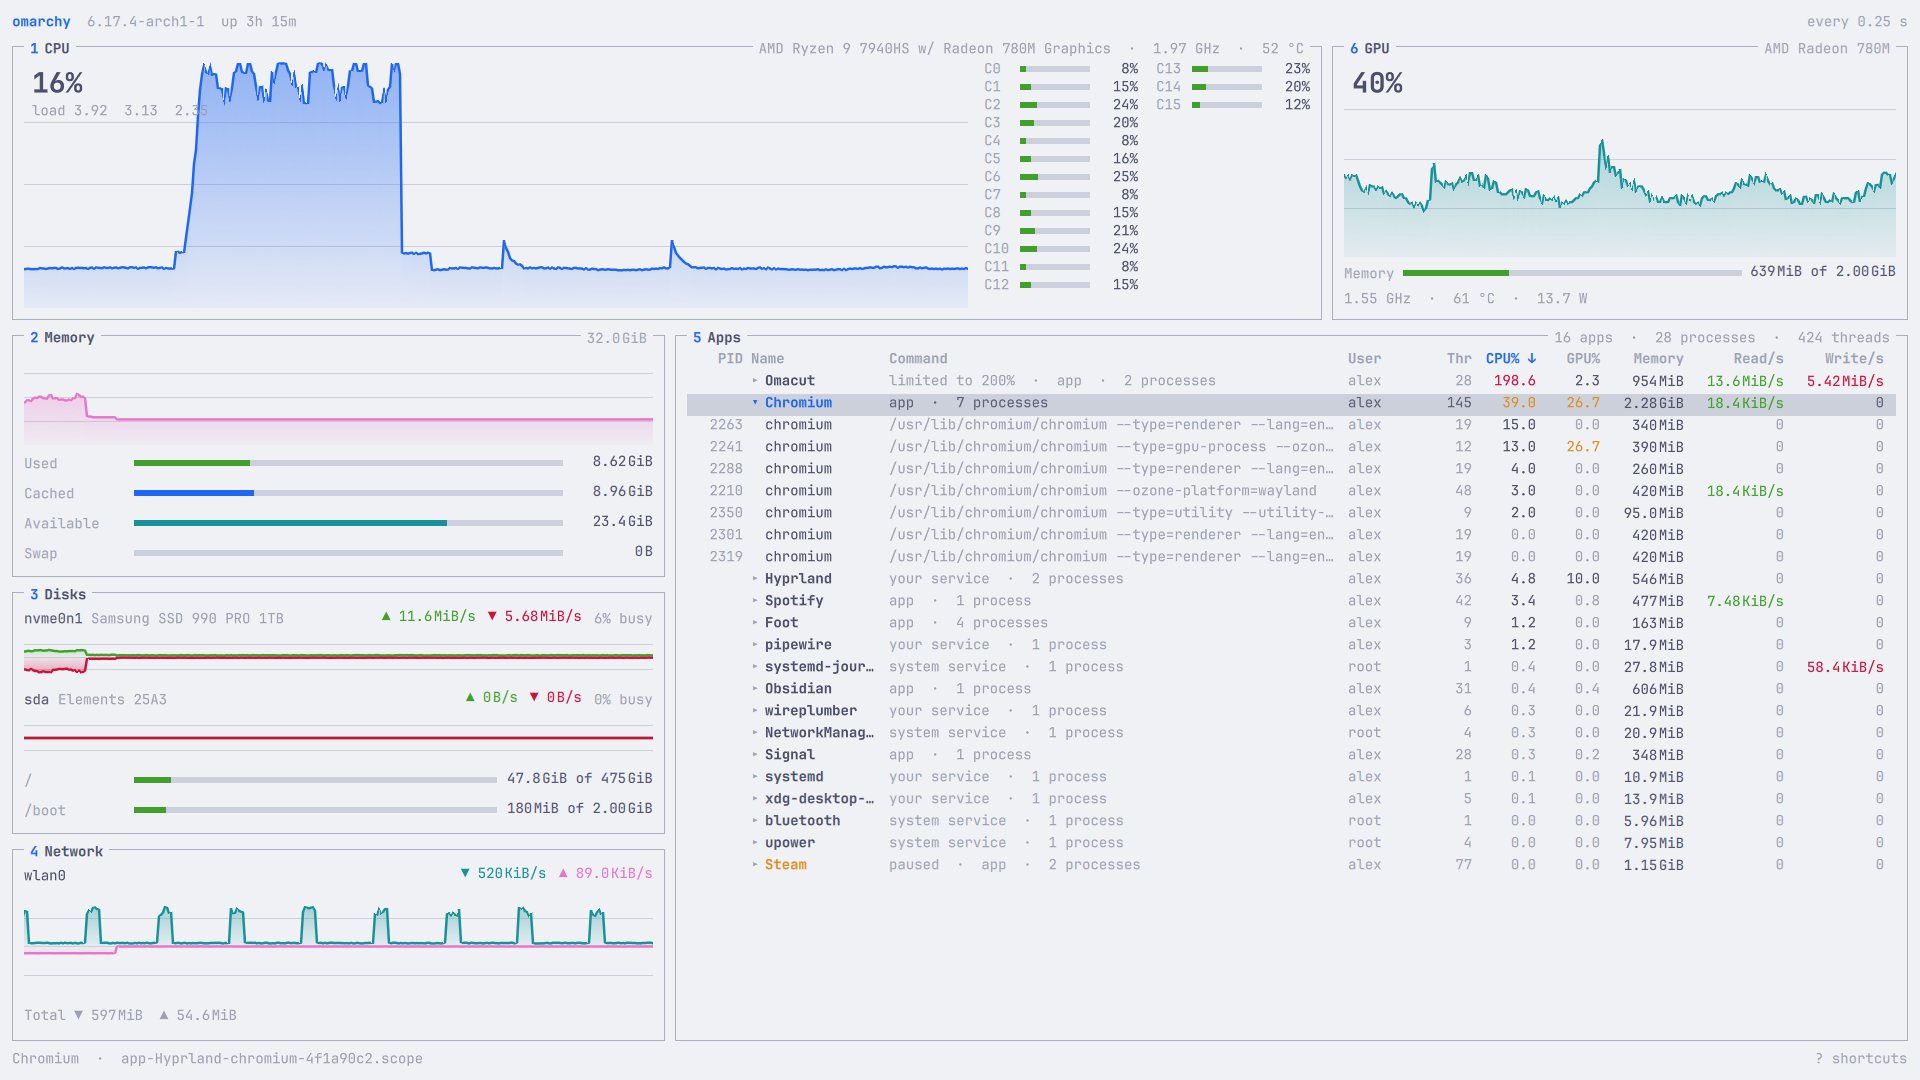
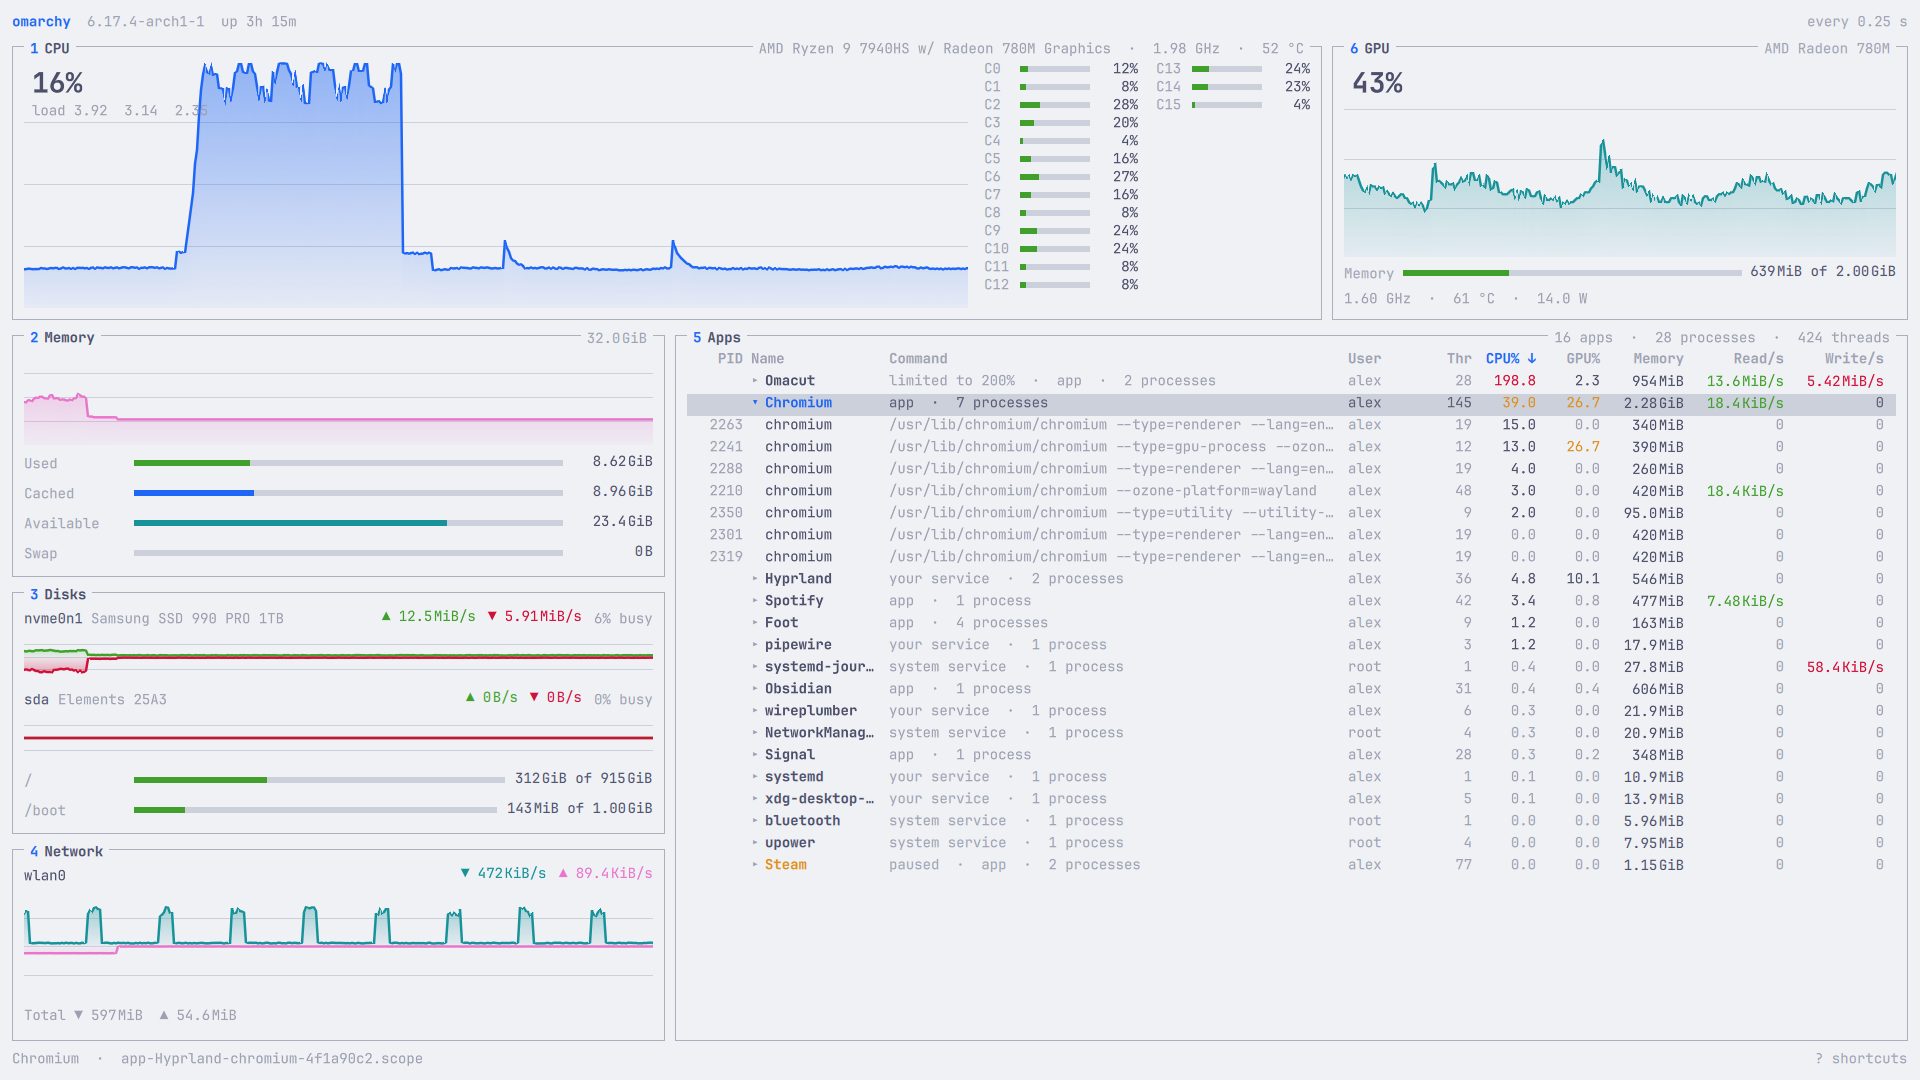
Give the demo system its own filesystem sizes (#5)

diff --git a/src/monitor.cpp b/src/monitor.cpp
@@ -8,6 +8,7 @@
 #include <QProcess>
 #include <QSysInfo>
 #include <algorithm>
+#include <array>
 
 #include <cerrno>
 #include <dirent.h>
@@ -514,13 +515,37 @@ void Monitor::sampleFilesystems() {
         for (const QString &uuid : byUuid.entryList(QDir::System | QDir::Files | QDir::NoDotAndDotDot))
             m_uuidOf.insert(QFileInfo(QFileInfo(byUuid.filePath(uuid)).symLinkTarget()).fileName(), uuid);
     }
+    // A stand-in root can't make statvfs() answer for its mount points, so
+    // it says how big its filesystems are in its own statvfs file: a line
+    // per mount point, "PATH TOTAL FREE AVAILABLE" in bytes. Without one,
+    // or for a mount point it leaves out, the real filesystem is asked.
+    QHash<QString, std::array<double, 3>> standIn;
+    if (m_proc != "/proc") {
+        for (const QByteArray &line : readFile(m_proc + "/../statvfs").split('\n')) {
+            const QList<QByteArray> f = line.split(' ');
+            if (f.size() >= 4)
+                standIn.insert(QString::fromUtf8(f.mid(0, f.size() - 3).join(' ')),
+                               {f[f.size() - 3].toDouble(), f[f.size() - 2].toDouble(), f[f.size() - 1].toDouble()});
+        }
+    }
     for (const Mount &mount : parseMounts(mounts)) {
-        struct statvfs fs;
-        if (statvfs(QFile::encodeName(mount.path).constData(), &fs) != 0 || fs.f_blocks == 0)
+        double total, free, available;
+        const auto given = standIn.constFind(mount.path);
+        if (given != standIn.constEnd()) {
+            total = (*given)[0];
+            free = (*given)[1];
+            available = (*given)[2];
+        } else {
+            struct statvfs fs;
+            if (statvfs(QFile::encodeName(mount.path).constData(), &fs) != 0)
+                continue;
+            total = double(fs.f_blocks) * fs.f_frsize;
+            free = double(fs.f_bfree) * fs.f_frsize;
+            available = double(fs.f_bavail) * fs.f_frsize;
+        }
+        if (total <= 0)
             continue;
-        const double total = double(fs.f_blocks) * fs.f_frsize;
-        const double available = double(fs.f_bavail) * fs.f_frsize;
-        const double used = total - double(fs.f_bfree) * fs.f_frsize;
+        const double used = total - free;
         filesystems.append(QVariantMap{
             {"id", m_uuidOf.value(blockName(mount.device), mount.device)},
             {"path", mount.path}, {"device", mount.device}, {"type", mount.type},

diff --git a/tests/montop_tests.cpp b/tests/montop_tests.cpp
@@ -389,6 +389,31 @@ private slots:
                 QCOMPARE(d.toMap()["id"].toString(), QString("usb-SanDisk_Cruzer_4C53-0:0"));
     }
 
+    void standInRootGivesFilesystemSizes()
+    {
+        QTemporaryDir root;
+        const QString proc = root.filePath("proc"), sys = root.filePath("sys");
+        write(proc + "/meminfo", "MemTotal: 1000 kB\nMemAvailable: 600 kB\n");
+        write(proc + "/stat", "cpu  0 0 0 0 0 0 0 0\ncpu0 0 0 0 0 0 0 0 0\n");
+        // "/" exists everywhere, so statvfs() would answer for it with this
+        // machine's disk: the stand-in's own numbers must win.
+        write(proc + "/self/mounts", "/dev/nvme0n1p2 / ext4 rw 0 0\n/dev/nvme0n1p1 /boot vfat rw 0 0\n"
+                                     "/dev/sdb1 /mnt/my\\040backup ext4 rw 0 0\n/dev/sdc1 /nowhere/at/all ext4 rw 0 0\n");
+        write(root.filePath("statvfs"), "/ 1000 400 300\n/boot 2000 1500 1500\n/mnt/my backup 100 25 25\n");
+        Monitor monitor(proc, sys);
+        monitor.sample();
+        QHash<QString, QVariantMap> found;
+        for (const QVariant &f : monitor.filesystems())
+            found.insert(f.toMap()["path"].toString(), f.toMap());
+        QCOMPARE(found.size(), 3); // Not listed, and not a real directory either: left out.
+        QCOMPARE(found["/"]["total"].toDouble(), 1000.0);
+        QCOMPARE(found["/"]["used"].toDouble(), 600.0);
+        QCOMPARE(found["/"]["available"].toDouble(), 300.0);
+        QCOMPARE(found["/"]["share"].toDouble(), 600.0 / 900.0);
+        QCOMPARE(found["/boot"]["used"].toDouble(), 500.0);
+        QCOMPARE(found["/mnt/my backup"]["total"].toDouble(), 100.0);
+    }
+
     void leavesOutApplesInternalNamespaces()
     {
         QTemporaryDir root;

diff --git a/tools/demo/montop-demo.py b/tools/demo/montop-demo.py
@@ -1,7 +1,8 @@
 #!/usr/bin/env python3
 """A made-up system for Montop to watch, for screenshots and demos.
 
-Writes a stand-in /proc and /sys under ROOT and keeps their counters moving
+Writes a stand-in /proc and /sys under ROOT (and the sizes of its
+filesystems, in ROOT/statvfs) and keeps their counters moving
 four times a second, following a fixed script: a browser streaming video
 (decoded on the Radeon 780M, the CPU's own GPU),
 music, a video export held to two cores, a paused game store, and a Rust
@@ -224,6 +225,11 @@ def setup():
     write(f"{PROC}/cpuinfo", "".join(f"processor\t: {i}\nmodel name\t: AMD Ryzen 9 7940HS w/ Radeon 780M Graphics\n\n"
                                      for i in range(CORES)))
     write(f"{PROC}/self/mounts", "/dev/nvme0n1p2 / ext4 rw,relatime 0 0\n/dev/nvme0n1p1 /boot vfat rw,relatime 0 0\n")
+    # How big the filesystems are, in bytes: total, free, available to users.
+    # Montop would otherwise ask this machine's own / and /boot.
+    gib = 1 << 30
+    write(f"{ROOT}/statvfs", f"/ {int(915 * gib)} {int(603 * gib)} {int(556 * gib)}\n"
+                             f"/boot {gib} {int(0.86 * gib)} {int(0.86 * gib)}\n")
     write(f"{SYS}/block/nvme0n1/dev", "259:0\n")
     write(f"{SYS}/block/nvme0n1/size", "2000409264\n")
     write(f"{SYS}/block/nvme0n1/device/model", "Samsung SSD 990 PRO 1TB\n")

diff --git a/.claude/skills/montop-dev/SKILL.md b/.claude/skills/montop-dev/SKILL.md
@@ -22,7 +22,9 @@ specific to Montop.
 - `pkgbuild/PKGBUILD`: builds this checkout for `bin/install`.
 - `pkgbuild/omarchy-pkgs/`: the recipe for omacom/omarchy-pkgs, built from
   the GitHub release tarball. It is the source of truth for the PR there.
-- `tools/demo/`: the made-up demo system and the screenshot driver.
+- `tools/demo/`: the made-up demo system and the screenshot driver. A
+  stand-in root (`MONTOP_ROOT`) gives its filesystem sizes in `ROOT/statvfs`,
+  since statvfs() would otherwise report this machine's own disks.
 
 ## Loop
 
